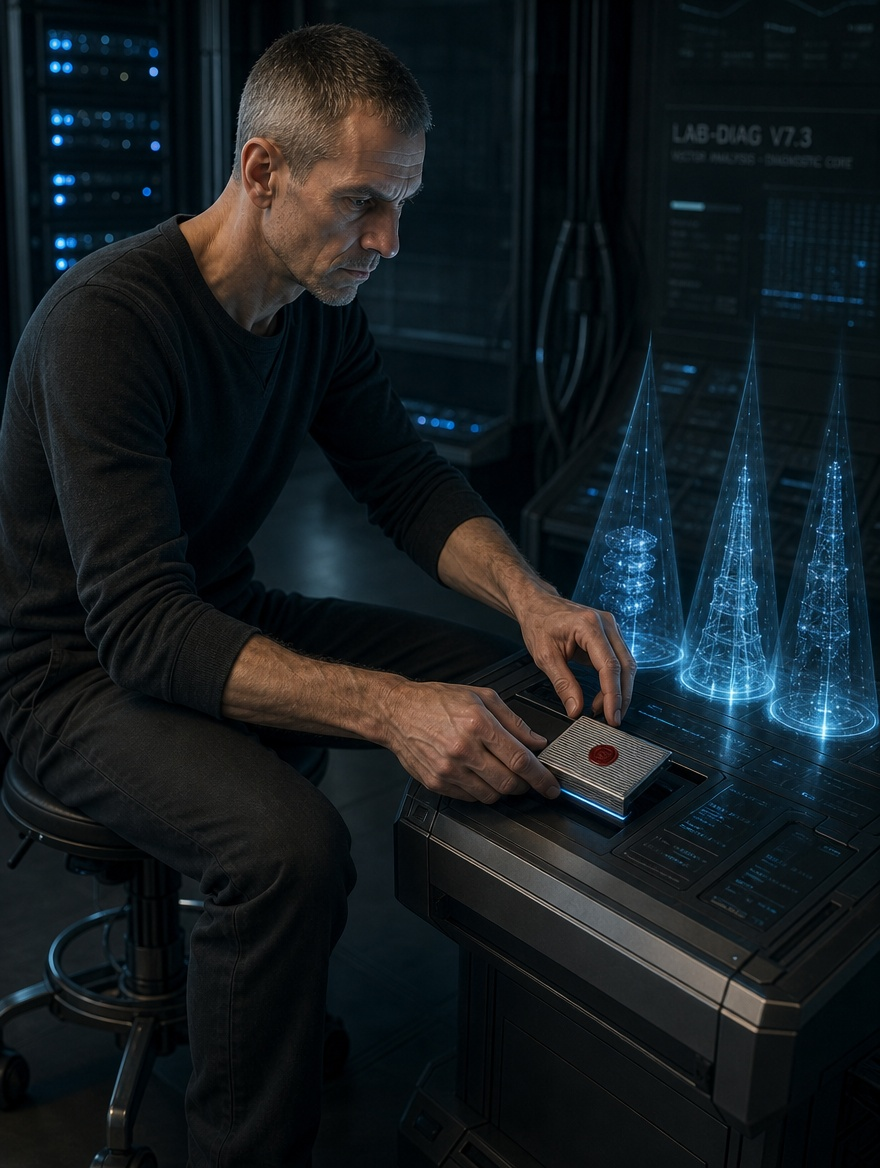
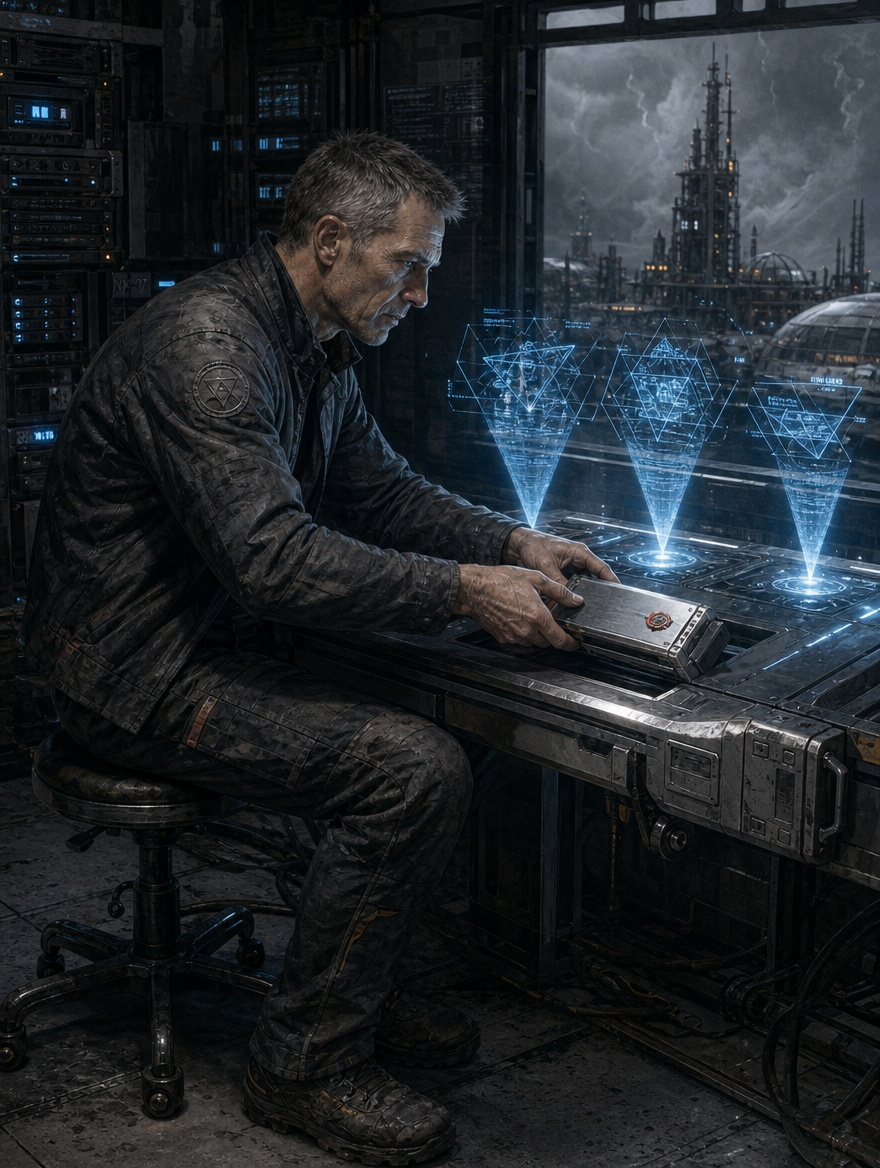
books: der-zweite-orbit Stilanker wieder aktiv, Kapitelbilder 004-006 erneuert (1k)

diff --git a/books/der-zweite-orbit/work/prompts/higgsfield/006-chapter-stil-01-original.md b/books/der-zweite-orbit/work/prompts/higgsfield/006-chapter-stil-01-original.md
@@ -1,1 +1,1 @@
-Henrik betritt den frostigen Hundezwinger; Boran liegt auf einer Holzpalette und hebt kaum den Kopf, während Elena am hinteren Ende der Werkbank über einer Silikonform mit erstarrtem grauem Schlamm arbeitet, den. Figuren: Henrik Vance — kommt durch die Schleuse herein, die Hand noch an der Schottverriegelung — 47 Jahre alt, hochgewachsen und hager, mit leicht nach vorn geneigten Schultern. Er hat schmale, markante Gesichtszüge mit tiefen Falten um die graublauen Augen, kurz geschorenes dunkelblondes Haar mit deutlichen silbernen Schläfen und; Elena Koroljowa — steht an der Werkbank, über die Silikonform gebeugt, Lederriemen zwischen den Zähnen — 33 Jahre alt, mittelgroß, drahtig und durchtrainiert mit einem federnden, lautlosen Gang. Ovales Gesicht mit hohen Wangenknochen, wettergegerbter heller Haut, wachen bernsteinfarbenen Augen und langem, dunkelbraunem Haar, das sie streng zu; Boran — liegt langgestreckt auf einer Holzpalette, den Kopf kaum gehoben — Sechs Jahre alter, kräftiger Rüde (ca. 34 kg) mit dichtem, wolfsartigem, dunkelgrauem und schwarzem Stockhaar, breiter Brust und aufrecht stehenden, spitzen Ohren. Gegenstände: Gitterbox mit Holzpalette, Silikonform mit erstarrtem grauem Schlamm, getrockneter Lederriemen, orangefarbenes Einsatzgeschirr. Bildausschnitt: medium shot.
+Henrik betritt den frostigen Hundezwinger; Boran liegt auf einer Holzpalette und hebt kaum den Kopf, während Elena am hinteren Ende der Werkbank über einer Silikonform mit erstarrtem grauem Schlamm arbeitet, den. Figuren: Henrik Vance — kommt durch die Schleuse herein, die Hand noch an der Schottverriegelung — 47 Jahre alt, hochgewachsen und hager, mit leicht nach vorn geneigten Schultern. Er hat schmale, markante Gesichtszüge mit tiefen Falten um die graublauen Augen, kurz geschorenes dunkelblondes Haar mit deutlichen silbernen Schläfen und; Elena Koroljowa — steht an der Werkbank, über die Silikonform gebeugt, Lederriemen zwischen den Zähnen — 33 Jahre alt, mittelgroß, drahtig und durchtrainiert mit einem federnden, lautlosen Gang. Ovales Gesicht mit hohen Wangenknochen, wettergegerbter heller Haut, wachen bernsteinfarbenen Augen und langem, dunkelbraunem Haar, das sie streng zu; Boran — liegt langgestreckt auf einer Holzpalette, den Kopf kaum gehoben — Sechs Jahre alter, kräftiger Rüde (ca. 34 kg) mit dichtem, wolfsartigem, dunkelgrauem und schwarzem Stockhaar, breiter Brust und aufrecht stehenden, spitzen Ohren. Gegenstände: Gitterbox mit Holzpalette, Silikonform mit erstarrtem grauem Schlamm, getrockneter Lederriemen, orangefarbenes Einsatzgeschirr. Bildausschnitt: medium shot. Nova Terra, 2057: ash-grey exoplanet with black basalt needles, methane fog and magnetic storms; a mining outpost with drilling towers, pressurised domes, worn machinery and patched exosuits. The same visual world as the cover. Hard science fiction illustration, painterly realism, used-future industrial mood. Cold graphite and deep teal shadows, ash-grey basalt and drifting fog, warm amber work lights as the only warm accent. Fine detail, cinematic light.

diff --git a/books/der-zweite-orbit/work/prompts/higgsfield/005-chapter-stil-01-original.md b/books/der-zweite-orbit/work/prompts/higgsfield/005-chapter-stil-01-original.md
@@ -1,1 +1,1 @@
-Henrik sitzt im dämmrigen Diagnose-Labor auf einem Rollhocker vor dem Vektortisch und steckt ein versiegeltes Aluminium-Datenträgermodul in die Lesebank, während über dem Tisch drei blau flackernde Projektionskegel. Figuren: Henrik Vance — sitzt vorgebeugt am Vektortisch, die Finger am Datenträgermodul, den Blick auf die Projektionen — 47 Jahre alt, hochgewachsen und hager, mit leicht nach vorn geneigten Schultern. Er hat schmale, markante Gesichtszüge mit tiefen Falten um die graublauen Augen, kurz geschorenes dunkelblondes Haar mit deutlichen silbernen Schläfen und. Gegenstände: Rollhocker, Vektortisch mit drei volumetrischen Projektionskegeln, Aluminium-Datenträgermodul mit rotem Lacksiegel, Serverracks mit blauen Diagnose-Dioden. Bildausschnitt: medium shot.
+Henrik sitzt im dämmrigen Diagnose-Labor auf einem Rollhocker vor dem Vektortisch und steckt ein versiegeltes Aluminium-Datenträgermodul in die Lesebank, während über dem Tisch drei blau flackernde Projektionskegel. Figuren: Henrik Vance — sitzt vorgebeugt am Vektortisch, die Finger am Datenträgermodul, den Blick auf die Projektionen — 47 Jahre alt, hochgewachsen und hager, mit leicht nach vorn geneigten Schultern. Er hat schmale, markante Gesichtszüge mit tiefen Falten um die graublauen Augen, kurz geschorenes dunkelblondes Haar mit deutlichen silbernen Schläfen und. Gegenstände: Rollhocker, Vektortisch mit drei volumetrischen Projektionskegeln, Aluminium-Datenträgermodul mit rotem Lacksiegel, Serverracks mit blauen Diagnose-Dioden. Bildausschnitt: medium shot. Nova Terra, 2057: ash-grey exoplanet with black basalt needles, methane fog and magnetic storms; a mining outpost with drilling towers, pressurised domes, worn machinery and patched exosuits. The same visual world as the cover. Hard science fiction illustration, painterly realism, used-future industrial mood. Cold graphite and deep teal shadows, ash-grey basalt and drifting fog, warm amber work lights as the only warm accent. Fine detail, cinematic light.

diff --git a/books/der-zweite-orbit/work/prompts/higgsfield/004-chapter-stil-01-original.md b/books/der-zweite-orbit/work/prompts/higgsfield/004-chapter-stil-01-original.md
@@ -1,1 +1,1 @@
-Henrik steht auf der vereisten Gitterplattform der zweiten Ebene an Bohrturm Eins; der zwölftausend Kilowatt starke Bohrantrieb ist mitten im Vollhub ausgefallen, und im Schwefelnebel steht plötzlich absolute Stille. Figuren: Henrik Vance — hält inne, den Blick auf das Handgelenk-Display mit der auf null gefallenen Telemetriekurve gerichtet — 47 Jahre alt, hochgewachsen und hager, mit leicht nach vorn geneigten Schultern. Er hat schmale, markante Gesichtszüge mit tiefen Falten um die graublauen Augen, kurz geschorenes dunkelblondes Haar mit deutlichen silbernen Schläfen und. Gegenstände: eisüberzogene Metallgitter-Plattform, Handgelenk-Display, Schutzhelm mit Sichtscheibe, Stahlfachwerk des Förderturms im Nebel. Bildausschnitt: low angle.
+Henrik steht auf der vereisten Gitterplattform der zweiten Ebene an Bohrturm Eins; der zwölftausend Kilowatt starke Bohrantrieb ist mitten im Vollhub ausgefallen, und im Schwefelnebel steht plötzlich absolute Stille. Figuren: Henrik Vance — hält inne, den Blick auf das Handgelenk-Display mit der auf null gefallenen Telemetriekurve gerichtet — 47 Jahre alt, hochgewachsen und hager, mit leicht nach vorn geneigten Schultern. Er hat schmale, markante Gesichtszüge mit tiefen Falten um die graublauen Augen, kurz geschorenes dunkelblondes Haar mit deutlichen silbernen Schläfen und. Gegenstände: eisüberzogene Metallgitter-Plattform, Handgelenk-Display, Schutzhelm mit Sichtscheibe, Stahlfachwerk des Förderturms im Nebel. Bildausschnitt: low angle. Nova Terra, 2057: ash-grey exoplanet with black basalt needles, methane fog and magnetic storms; a mining outpost with drilling towers, pressurised domes, worn machinery and patched exosuits. The same visual world as the cover. Hard science fiction illustration, painterly realism, used-future industrial mood. Cold graphite and deep teal shadows, ash-grey basalt and drifting fog, warm amber work lights as the only warm accent. Fine detail, cinematic light.
